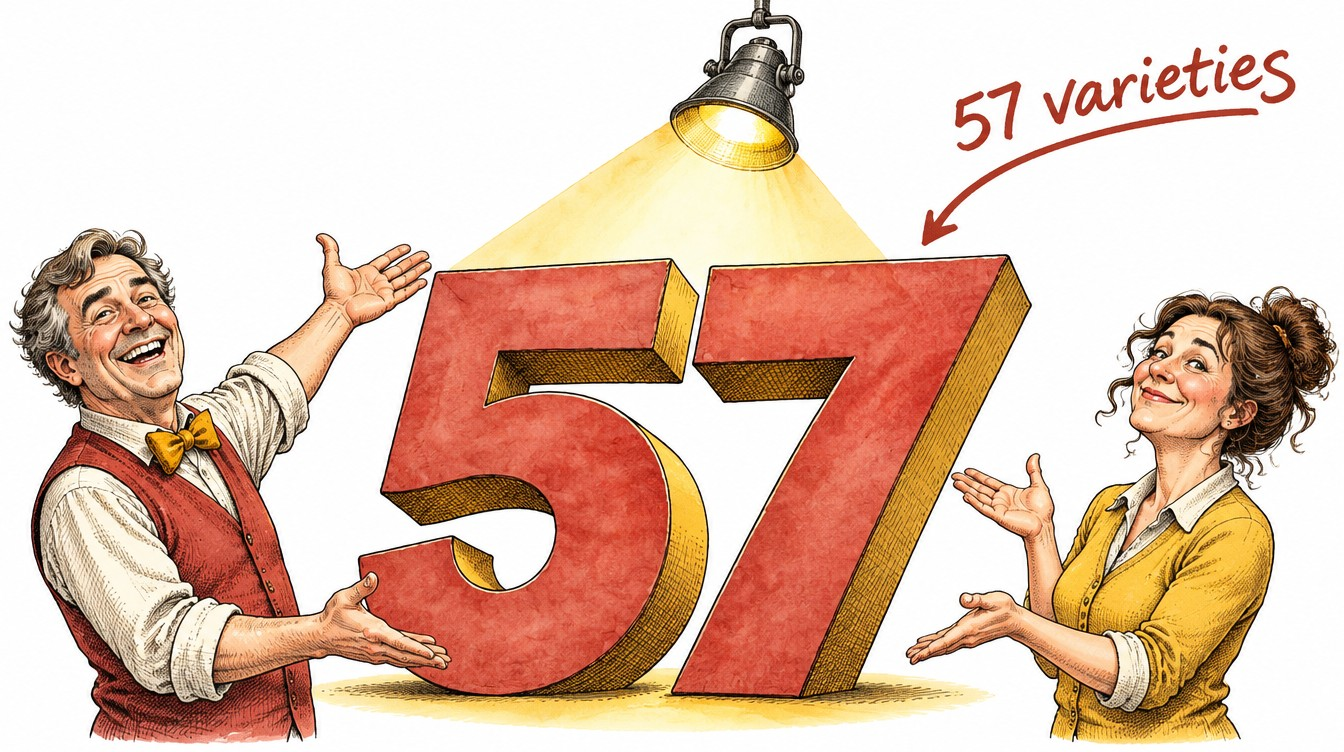
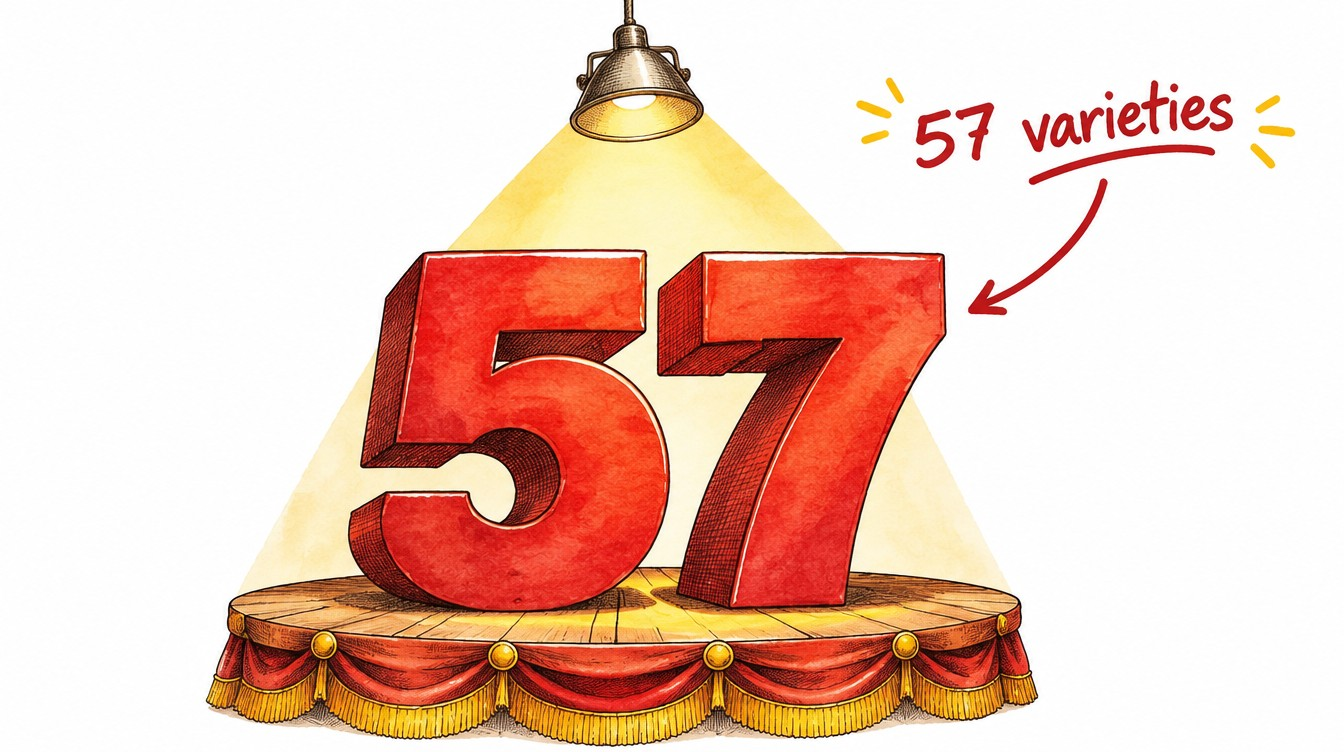
Ketchup: regenerate frames 95 and 102 after strict hand audit
Claude-Session: https://claude.ai/code/session_01TNc2K5SJr878gAAoSdETAS

diff --git a/drinks/ketchup/shots.py b/drinks/ketchup/shots.py
@@ -105,7 +105,7 @@ SHOTS = [
  (6,8,"a 1906 government document with a big seal, a food inspector in a bowler hat holding a clipboard","1906"),
  (6,9,"a calm bearded 1900s businessman in a black suit sipping tea while panicking rival factory owners run around behind him waving papers",""),
  (6,10,"a vintage advertising sign with the big number 57 and decorative flourishes",""),
- (6,11,"the number 57 in giant 3D letters with a spotlight","57 varieties"),
+ (6,11,"the number 57 in giant red 3D block letters on a small stage, lit by one spotlight; an object illustration only, there are no human beings, no hands and no faces in this image","57 varieties"),
  (6,12,"an accountant counting a long row of jars on shelves, 58, 59, 60, scratching his head",""),
  (6,13,"a long shelf of over sixty different jars and bottles, an arrow pointing at the end","60+"),
  (6,14,"a bearded 1900s businessman in a black suit shrugging and smiling next to a big number 57","he liked it"),
@@ -113,7 +113,7 @@ SHOTS = [
  (7,0,"a classic glass ketchup bottle standing alone on a diner table",""),
  (7,1,"a classic glass ketchup bottle under a stage spotlight like a celebrity, little sparkles",""),
  (7,2,"stick-figure 'you' holding a glass ketchup bottle upside down over a plate of fries, waiting, nothing coming out","nothing"),
- (7,3,"a scientific diagram of ketchup particles, tangled when still and lined up when pushed","weird liquid"),
+ (7,3,"a scientific diagram of ketchup particles in two magnified circles, tangled when still and lined up when pushed; a diagram only, there are no human beings, no hands, no faces and no bottles in this image","weird liquid"),
  (7,4,"ketchup in a glass bottle drawn as a solid red block with a 'STOP' sign",""),
  (7,5,"ketchup suddenly whooshing out of a glass bottle like a waterfall with speed lines",""),
  (7,6,"one single stick-figure 'you' standing, holding a red ketchup squeeze bottle upside down with both hands, a big red ketchup splat on his white shirt and on the plate at his feet, shocked face; only one figure in the picture","shake... splat"),
